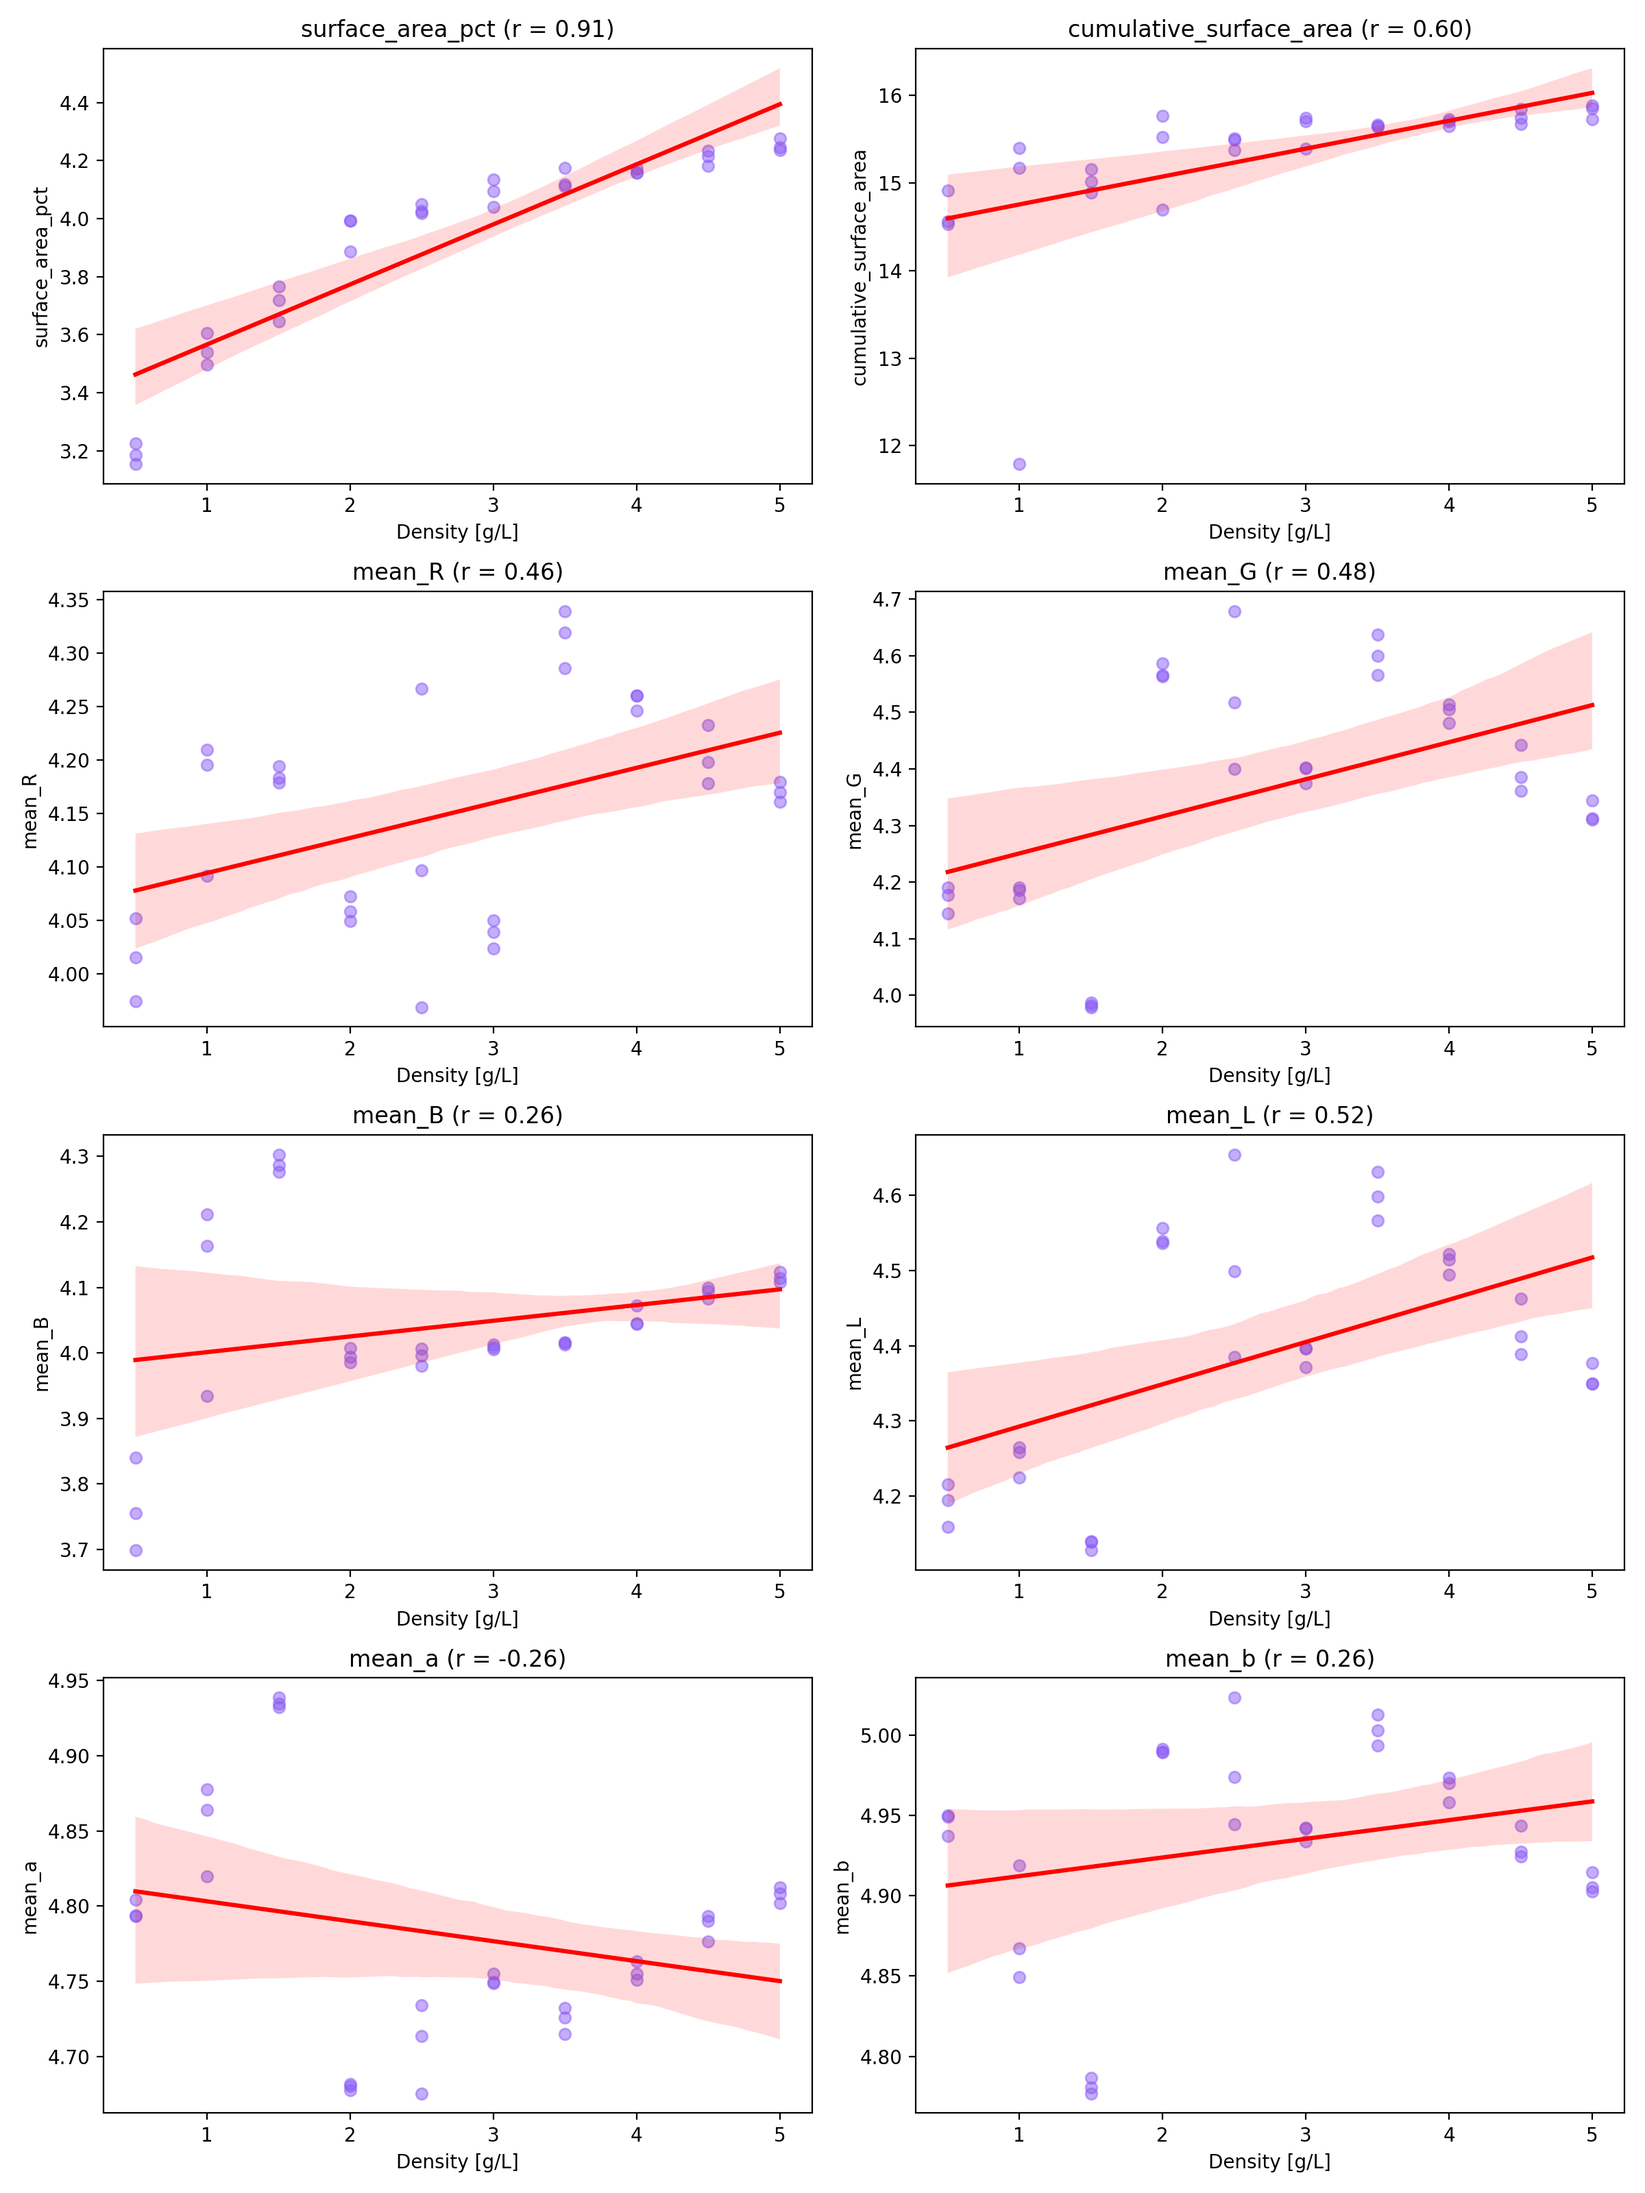
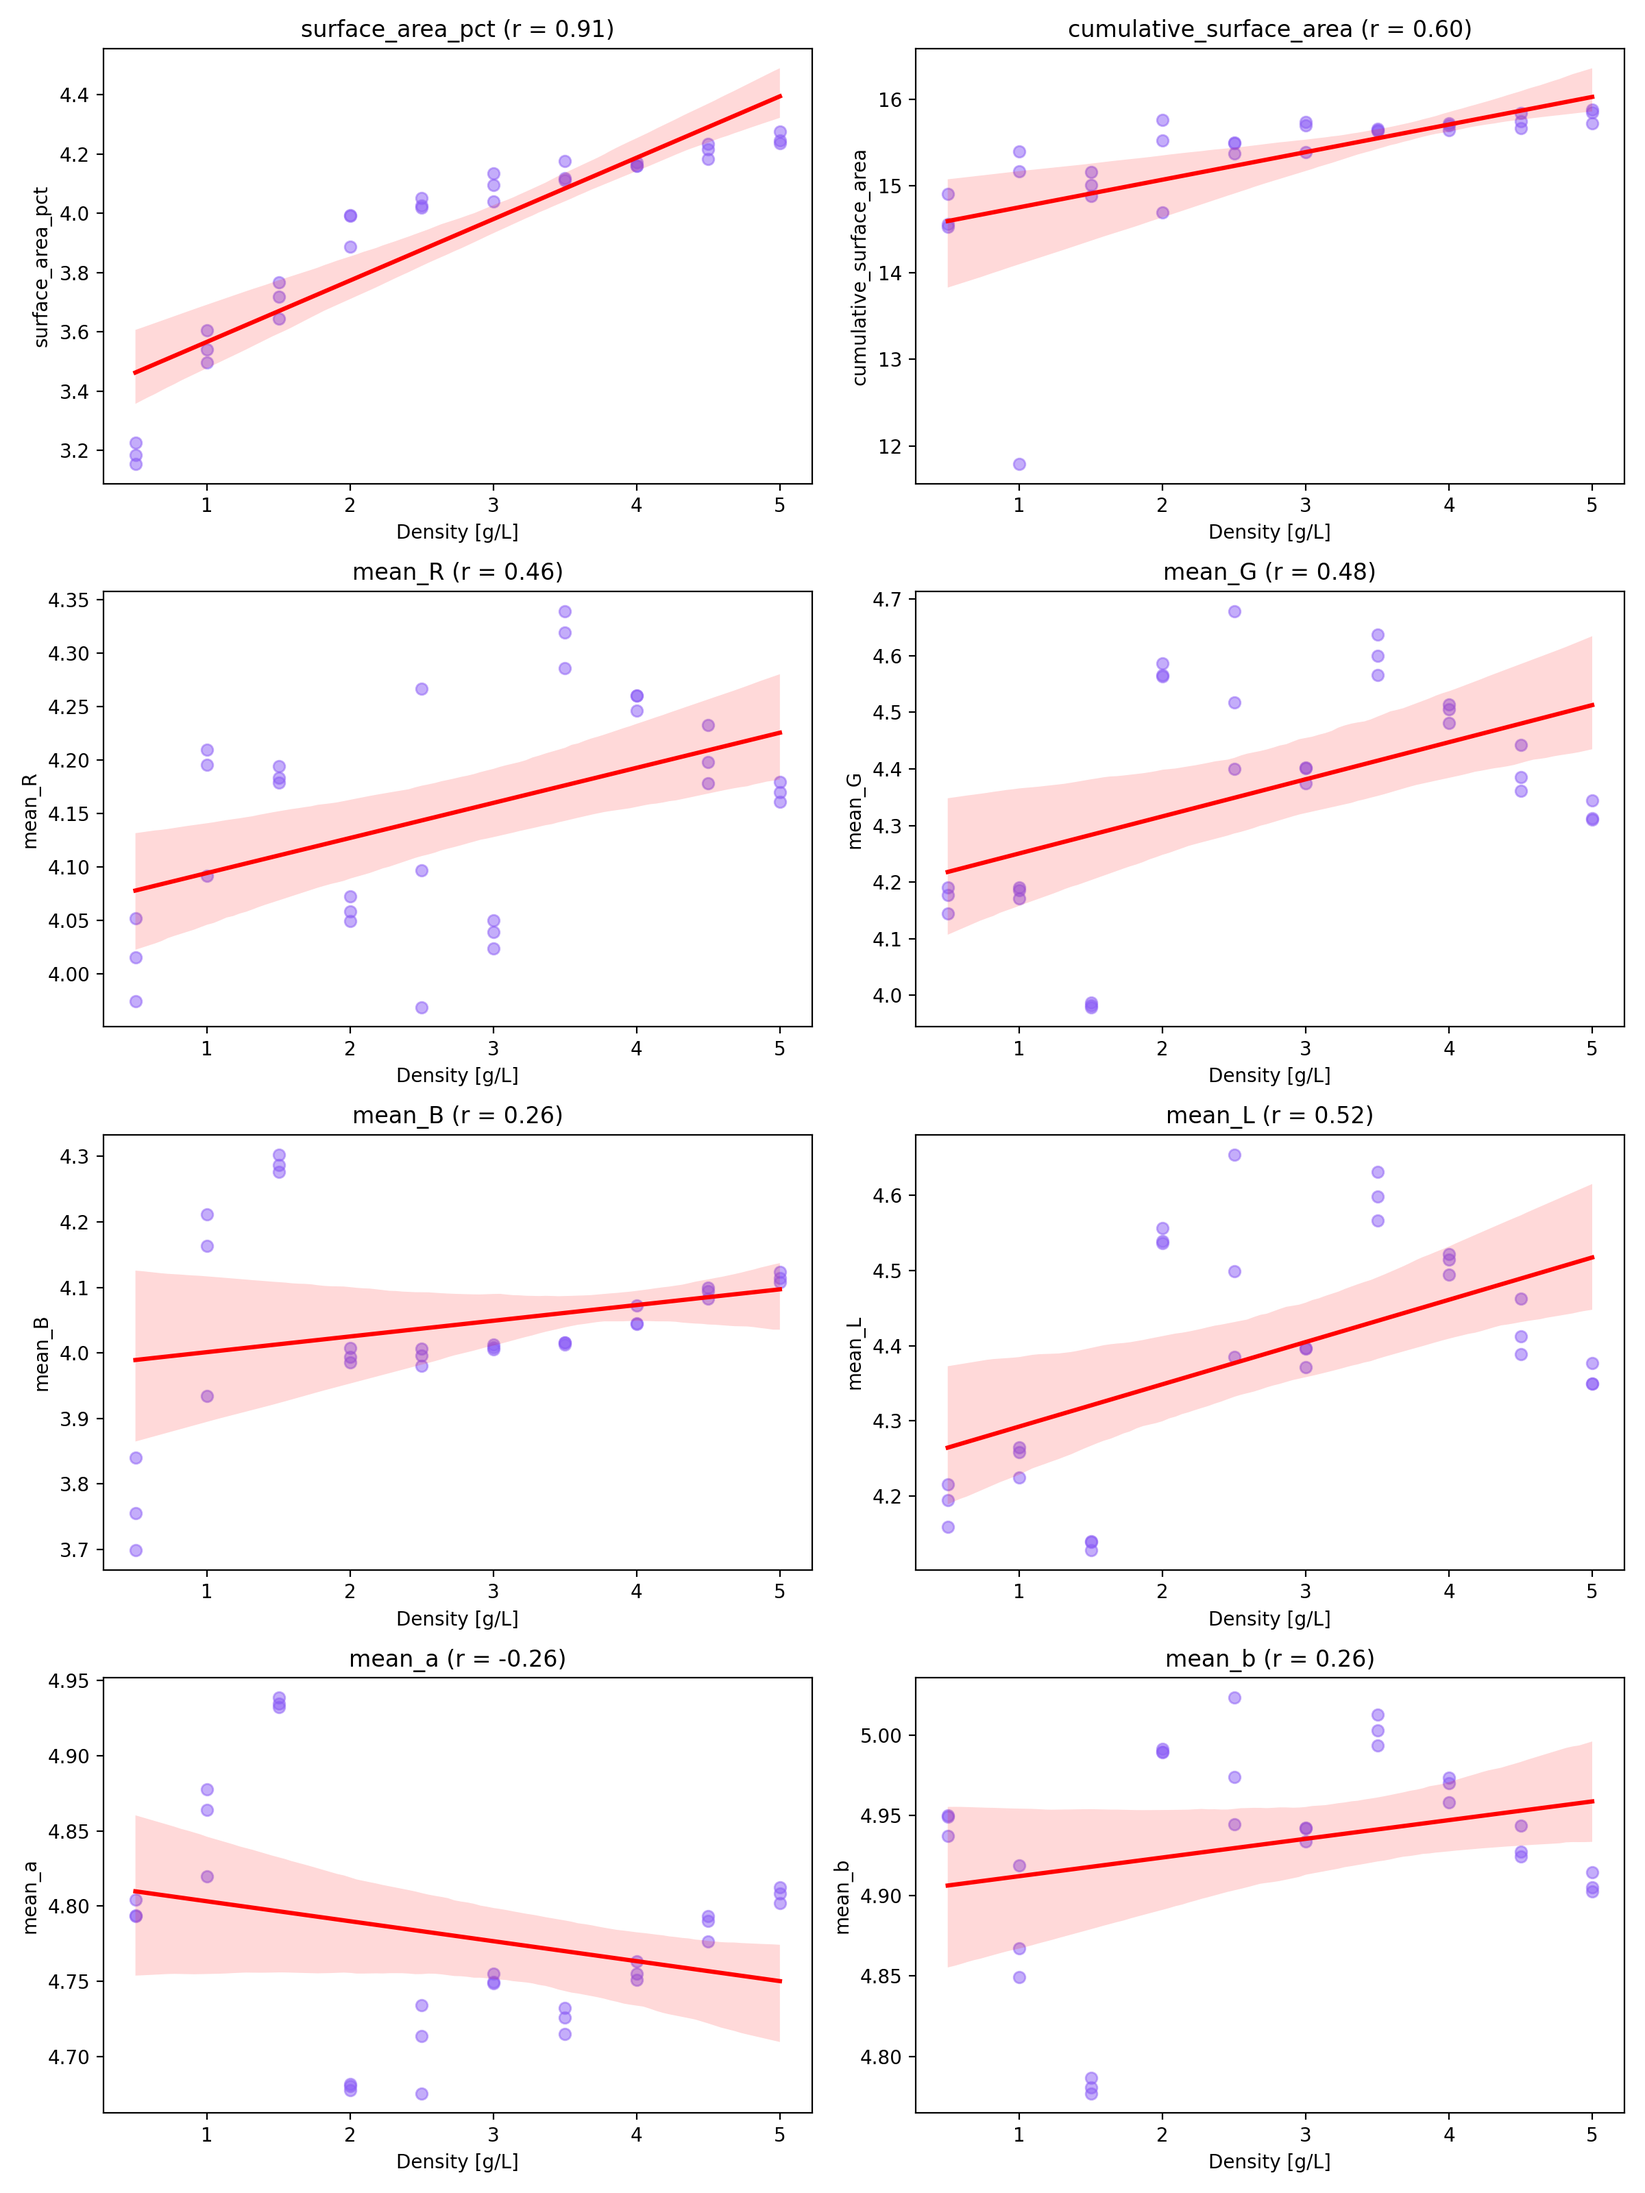
Update logarithmic regression to use raw y-values, only using log(x). From log-log into linear-log model

diff --git a/src/data_exploration.py b/src/data_exploration.py
@@ -19,7 +19,7 @@ from scipy.stats import t
 
 def logarithmic_curve(x, a, b):
     """Logarithmic curve: y = a * ln(x) + b"""
-    return a * np.log(x) + b
+    return a * np.log(x) + b # Linear-log model
 
 def plot_regression(df, features, output_name, output_folder='doc', scatter_color='#219ebc', log_curve=False):
     """
@@ -61,8 +61,6 @@ def plot_regression(df, features, output_name, output_folder='doc', scatter_colo
                 ss_res = np.sum(residuals**2)
                 ss_tot = np.sum((y - np.mean(y))**2)
                 r_squared = 1 - (ss_res / ss_tot)
-                ax.set_title(f'{feature} (log-curve, R² = {r_squared:.2f})')
-                print(f"[INFO] Logarithmic curve for {feature}: a={a:.2f}, b={b:.2f}, R²={r_squared:.2f}")
 
                 # Calculate degrees of freedom
                 n = len(x)
@@ -78,8 +76,9 @@ def plot_regression(df, features, output_name, output_folder='doc', scatter_colo
                 t_values = popt / std_errors
                 p_values = 2 * (1 - t.cdf(np.abs(t_values), df=dof))
 
+                ax.set_title(f'{feature} (R² = {r_squared * 100:.1f}, p = {p_values[1]:.4f})')
                 print(f"\n\n[INFO] Logarithmic curve for {feature}:")
-                print(f"[INFO] a = {a:.4f} (p = {p_values[0]:.4f}), b = {b:.4f} (p = {p_values[1]:.4f}), R² = {r_squared:.4f}")
+                print(f"[INFO] a = {a:.4f} (p = {p_values[0]:.4f}), b = {b:.4f} (p = {p_values[1]:.4f}), R² = {r_squared * 100:.1f}")
 
             except RuntimeError:
                 print(f"\n\n[INFO] Logarithmic curve fit failed for {feature}")
@@ -223,7 +222,9 @@ def plot_features_vs_density(df, features, output_name, scatter_color, log_trans
     vif_data, corr_matrix = compute_colinearity(df_analysis, features, output_name=output_name)
 
     # Compute regression for selected features
-    plot_regression(df_analysis, features=features, output_name=output_name, scatter_color=scatter_color, log_curve=log_transform)
+    # Even for log-models, we keep the original values
+    # Instead, we compute a logarithmic curve on the original values
+    plot_regression(df, features=features, output_name=output_name, scatter_color=scatter_color, log_curve=log_transform)
 
     print(f"[INFO] Computed statistics for {output_name}")
 

diff --git a/main.py b/main.py
@@ -140,8 +140,8 @@ def process_video_directory(
     print('[INFO] Code finished...')
 ## Video to frames preperation ##
 video_configs = {
-    # r"data/Ducks/Ulva_05_1.avi": [(208, 3978), (4089, 9233), (9490, 13285)], # 0.5 G/L
-    r"data/Ducks/Ulva_10_1.avi": [(339, 4176), (4313, 7691), (7865, 11453)], # TODO: Update ranges. Max frames=7989
+    r"data/Ducks/Ulva_05_1.avi": [(208, 3978), (4089, 9233), (9490, 13285)], # 0.5 G/L
+    # r"data/Ducks/Ulva_10_1.avi": [(339, 4176), (4313, 7691), (7865, 11453)], # TODO: Update ranges. Max frames=7989
     # r"data/Ducks/Ulva_15_1.avi": [(119, 2670), (2850, 5143), (5480, 7741)],
     # r"data/Ducks/Ulva_20_3.avi": [(115, 2850), (2906, 5981), (6023, 8672)],
     # r"data/Ducks/Ulva_25_3.avi": [(205, 2312), (2342, 4682), (4724, 6936)],
@@ -193,7 +193,7 @@ for input_video, keep_ranges in video_configs.items():
                            master_std=master_std,
 
                            # Save frames
-                           save_files=False
+                           save_files=True
                            )
     all_trial_frames.update(trial_frames)
 
@@ -207,5 +207,5 @@ process_video_directory(
     luminance_percentile=5, # Increase to >5% when using normalization
     output_folder="data/processed",
     max_frames=None,
-    save_files=False
+    save_files=True
 )
